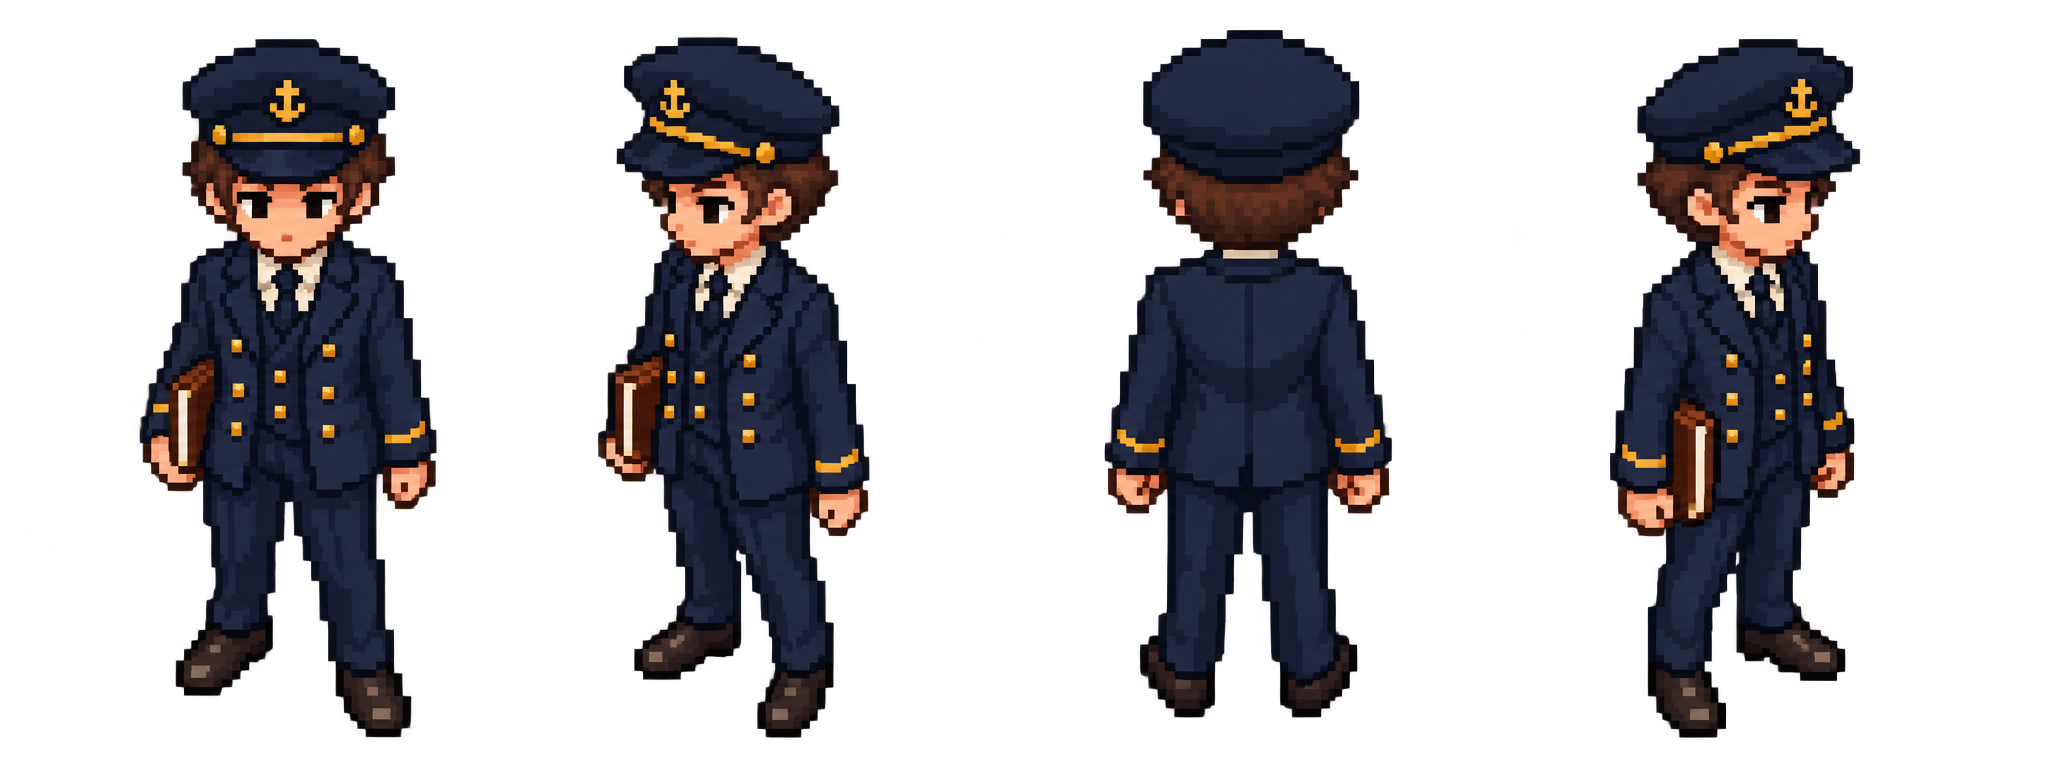
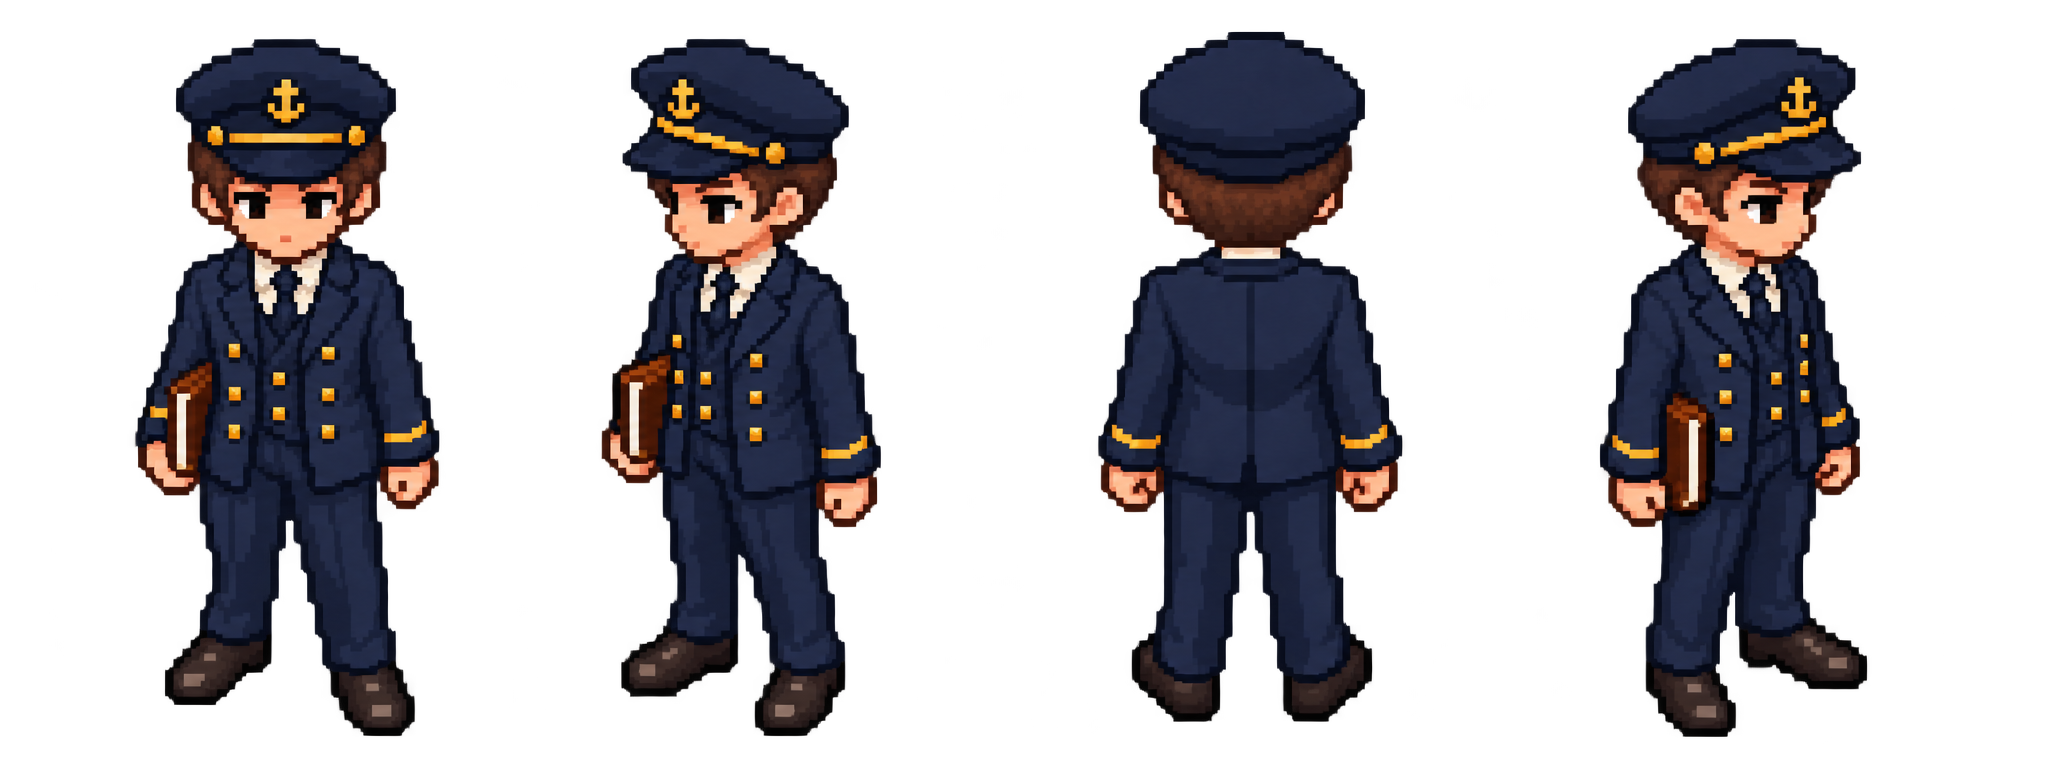
Refine Boy's disguise and four-direction walking animation

diff --git a/tools/pack_player_walk.py b/tools/pack_player_walk.py
@@ -1,0 +1,28 @@
+"""Pack the imagegen walk poses into the existing 32x48 character grid.
+
+Only crops, scales and aligns generated artwork; does not synthesize limb poses.
+"""
+from pathlib import Path
+from PIL import Image
+
+ROOT = Path(__file__).resolve().parents[1]
+source = Image.open(ROOT / "assets/characters/walk_source/player_cycle.png").convert("RGBA")
+rows = (0, 310, 610, 915, source.height)
+poses = []
+for row in range(4):
+    for column in range(4):
+        cell = source.crop((column * source.width // 4, rows[row],
+                            (column + 1) * source.width // 4, rows[row + 1]))
+        bounds = cell.getchannel("A").point(lambda a: 255 if a >= 128 else 0).getbbox()
+        if bounds is None:
+            raise ValueError(f"Missing pose {row}, {column}")
+        poses.append(cell.crop(bounds))
+
+scale = min(30 / max(p.width for p in poses), 46 / max(p.height for p in poses))
+sheet = Image.new("RGBA", (128, 192))
+for index, pose in enumerate(poses):
+    pose = pose.resize((round(pose.width * scale), round(pose.height * scale)), Image.Resampling.LANCZOS)
+    pose.putalpha(pose.getchannel("A").point(lambda a: 255 if a >= 128 else 0))
+    sheet.alpha_composite(pose, ((index % 4) * 32 + (32 - pose.width) // 2,
+                                (index // 4) * 48 + 48 - pose.height))
+sheet.save(ROOT / "assets/characters/player_walk.png")

diff --git a/docs/03_Updated_GDD.md b/docs/03_Updated_GDD.md
@@ -38,6 +38,8 @@ A pixel-art time-loop rescue game set aboard a 1920s Mediterranean cruise ship, 
 
 The framing is reading the diary of our great-great-aunt, found in a dusty loft. We play Amelia, a girl dressed as a boy. The Mission 8 conspiracy clue reveals this and enables outfit switching, granting additional access and many more options during the investigation playthrough. The title's “Lady” foreshadows a potential sequel; it is not a newly assigned starting rank.
 
+**Visual presentation — clarified 29 September 2026:** Amelia must read as a boy at gameplay sprite size. Keep cropped hair and a straight, boxy uniform silhouette consistent across standing, walking and action poses; do not introduce a visible bun or a fitted feminine silhouette.
+
 **Amelia starts as a junior purser / general ship’s clerk.** Her role covers passenger requests, tickets, manifests, messages, keys, complaints and coordination between departments. She receives two promotions during the voyage. Each expands legitimate ship access and social authority through defined responsibilities. This was recovered from the saved conversation; Q136 was an erroneous repeat question, not an unresolved design choice. Exact promoted titles and permission lists remain examples rather than confirmed specifics.
 
 Mission 1 has the tone of a comedy of errors: inconvenient, apparently rude interventions save lives. In particular, Amelia repeatedly inconveniences Character 1 to keep them away from a poisoned drink.
